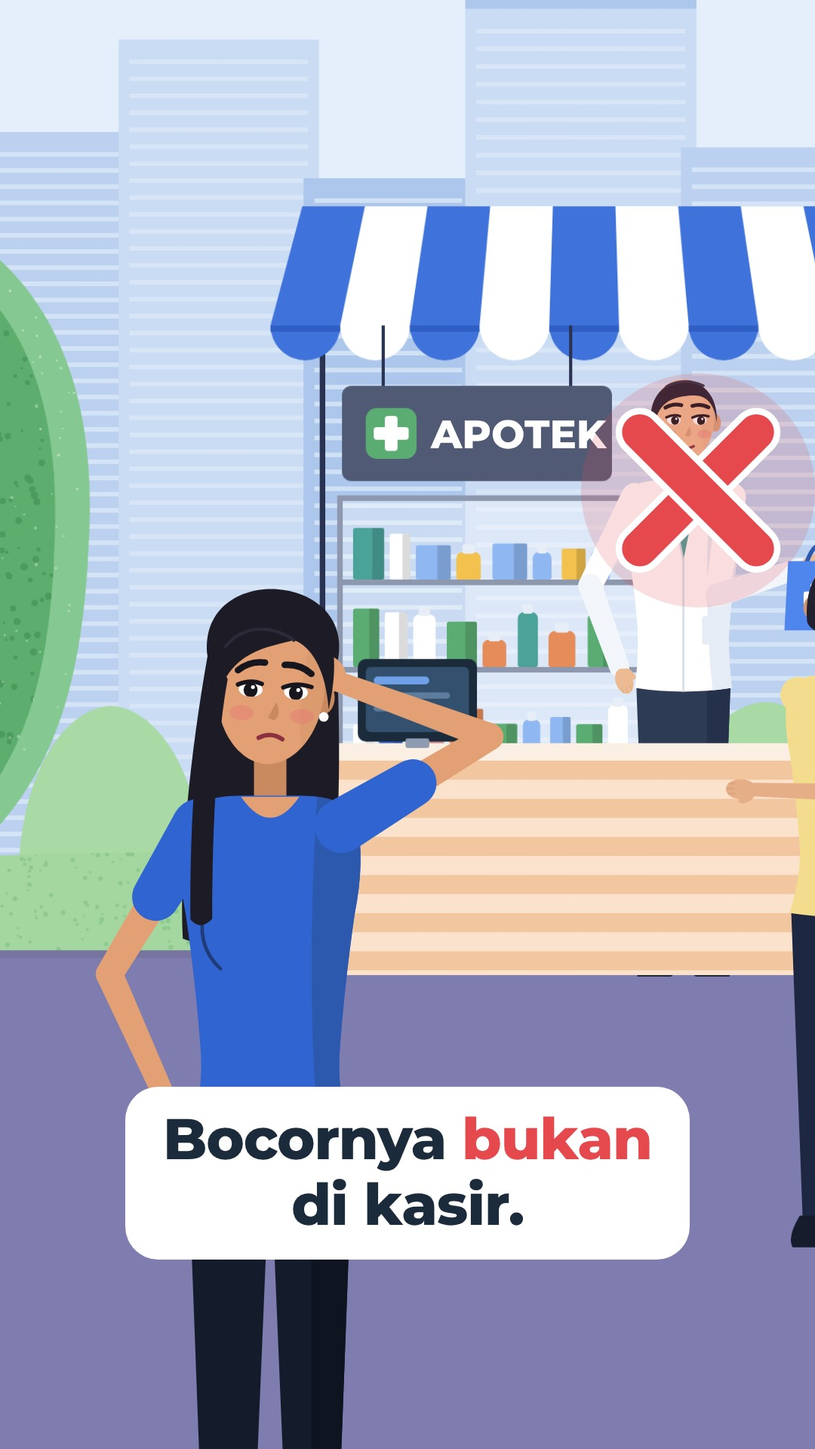
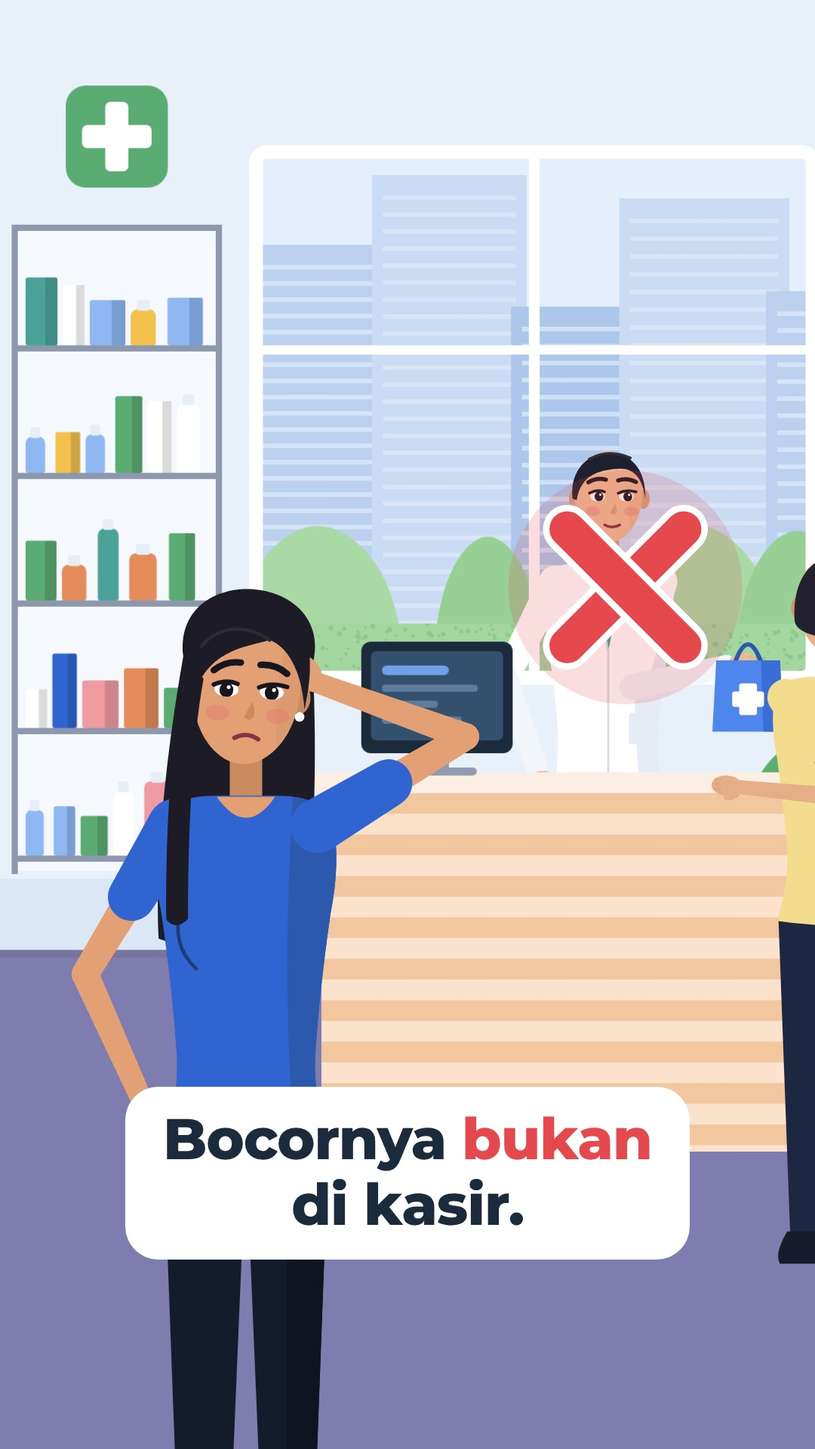
Adegan 1: kembali ke interior apotek sesuai brief, digambar dengan gaya referensi
Claude-Session: https://claude.ai/code/session_01LjuAxChgnnKKTHohxzD6C9

diff --git a/tunda-faktur/index.html b/tunda-faktur/index.html
@@ -331,7 +331,7 @@ function tokoh(o) {
   return out;
 }
 
-/* == 5. LATAR: kios apotek di taman kota (pra-render sekali) == */
+/* == 5. LATAR: interior apotek (pra-render sekali), gaya referensi == */
 const PAD = 260;
 function praRender(fn) { const k = kanvas(W + PAD * 2, H + PAD * 2), x = k.getContext('2d'); const lama = c; c = x; c.translate(PAD, PAD); fn(); c = lama; return k; }
 function gedung(x, y, w, h, warna, benih) {
@@ -344,68 +344,55 @@ function pohonMuda(x, y, r, warna, tinggi = 1.5) {
   c.beginPath(); c.moveTo(x - r, y); c.bezierCurveTo(x - r * 1.05, y - r * tinggi * .9, x - r * .4, y - r * tinggi * 1.25, x, y - r * tinggi * 1.25);
   c.bezierCurveTo(x + r * .4, y - r * tinggi * 1.25, x + r * 1.05, y - r * tinggi * .9, x + r, y); c.closePath(); isi(warna);
 }
+/* interior apotek siang, digambar dengan gaya referensi */
 const LATAR = praRender(() => {
-  c.fillStyle = C.langit; c.fillRect(-PAD, -PAD, W + PAD * 2, H + PAD * 2);
-  /* gedung pucat */
-  gedung(-120, 200, 300, 1100, C.ged2, 1); gedung(150, 80, 260, 1220, C.ged1, 2); gedung(390, 260, 220, 1040, C.ged3, 3);
-  gedung(600, 40, 300, 1260, C.ged1, 4); gedung(880, 220, 340, 1080, C.ged2, 5);
-  c.fillStyle = C.ged3; c.fillRect(600, 0, 300, 40); c.fillRect(690, -60, 80, 60);
-  /* pohon muda di belakang */
-  pohonMuda(140, 1200, 120, C.pohonMuda, 1.7); pohonMuda(330, 1210, 80, C.pohonMuda2, 1.9); pohonMuda(560, 1190, 70, C.pohonMuda, 2.3);
-  pohonMuda(990, 1200, 130, C.pohonMuda, 1.6);
-  /* rumput bertekstur */
-  c.beginPath(); c.moveTo(-PAD, 1150); c.quadraticCurveTo(300, 1120, 620, 1150); c.quadraticCurveTo(900, 1175, W + PAD, 1140); c.lineTo(W + PAD, 1270); c.lineTo(-PAD, 1270); c.closePath(); isi(C.rumput);
-  c.beginPath(); c.moveTo(-PAD, 1150); c.quadraticCurveTo(300, 1120, 620, 1150); c.quadraticCurveTo(900, 1175, W + PAD, 1140); c.lineTo(W + PAD, 1270); c.lineTo(-PAD, 1270); c.closePath();
-  bintik(-PAD, 1110, W + PAD * 2, 170, C.rumput2, 900, 21);
-  /* lantai/jalan */
-  c.fillStyle = C.lantai; c.fillRect(-PAD, 1262, W + PAD * 2, H);
-  c.fillStyle = C.lantai2; c.fillRect(-PAD, 1262, W + PAD * 2, 10);
-  /* pohon tua besar di kiri depan (bintik) */
-  c.beginPath(); c.moveTo(-PAD, 260); c.bezierCurveTo(60, 300, 130, 520, 110, 760); c.bezierCurveTo(95, 980, 40, 1150, -PAD, 1260); c.closePath(); isi(C.pohonTepi);
-  c.beginPath(); c.moveTo(-PAD, 300); c.bezierCurveTo(30, 340, 80, 540, 66, 760); c.bezierCurveTo(54, 960, 10, 1120, -PAD, 1230); c.closePath(); isi(C.pohonTua);
-  c.beginPath(); c.moveTo(-PAD, 300); c.bezierCurveTo(30, 340, 80, 540, 66, 760); c.bezierCurveTo(54, 960, 10, 1120, -PAD, 1230); c.closePath();
-  bintik(-PAD, 280, PAD + 120, 980, C.pohonTua2, 700, 31, 1.5, 5);
-  c.beginPath(); c.moveTo(-PAD, 260); c.bezierCurveTo(60, 300, 130, 520, 110, 760); c.bezierCurveTo(95, 980, 40, 1150, -PAD, 1260); c.closePath();
-  bintik(-PAD, 240, PAD + 140, 1040, 'rgba(255,255,255,.35)', 260, 32, 1, 2.4);
-});
-/* kios: tiang, tenda, papan, rak (di belakang kasir) */
-const KIOS_BELAKANG = praRender(() => {
-  /* rak obat bergaya rak kios referensi */
-  const rx = 420, ry = 700, rw = 380, rh = 330;
-  c.fillStyle = 'rgba(255,255,255,.35)'; c.fillRect(rx, ry, rw, rh);
-  const R = rng(5), warna = ['#3064D1', '#4BA299', '#5BAC72', '#F2C14E', '#F09AA2', '#FFFFFF', '#8FB7F2', '#E58C5A'];
-  for (let b = 0; b < 3; b++) { const by = ry + 100 + b * 110; let xx = rx + 14;
-    while (xx < rx + rw - 36) { const bw = 24 + R() * 22, bh = 34 + R() * 40, k = warna[Math.floor(R() * warna.length)];
-      if (R() < .35) { rr(xx, by - bh, bw * .8, bh, [8, 8, 3, 3]); isi(k); rr(xx + bw * .2, by - bh - 10, bw * .4, 12, 3); isi('#E8EEF7'); }
+  /* dinding biru pucat + list bawah */
+  c.fillStyle = '#E8F0FA'; c.fillRect(-PAD, -PAD, W + PAD * 2, H + PAD * 2);
+  c.fillStyle = '#DCE7F5'; c.fillRect(-PAD, 1170, W + PAD * 2, 92);
+  /* jendela besar: langit, gedung pucat bergaris, pohon bertekstur (pemandangan referensi) */
+  const jx = 330, jy = 230, jw = 720, jh = 680;
+  c.save(); rr(jx, jy, jw, jh, 14); c.clip();
+  c.fillStyle = C.langit; c.fillRect(jx, jy, jw, jh);
+  gedung(jx - 40, jy + 120, 220, 700, C.ged2, 1); gedung(jx + 150, jy + 30, 200, 800, C.ged1, 2); gedung(jx + 330, jy + 200, 160, 700, C.ged3, 3);
+  gedung(jx + 470, jy + 60, 220, 800, C.ged1, 4); gedung(jx + 660, jy + 180, 160, 700, C.ged2, 5);
+  pohonMuda(jx + 80, jy + jh + 10, 110, C.pohonMuda, 1.5); pohonMuda(jx + 300, jy + jh + 10, 70, C.pohonMuda2, 2.2);
+  pohonMuda(jx + 560, jy + jh + 10, 120, C.pohonMuda, 1.4); pohonMuda(jx + 700, jy + jh + 10, 80, C.pohonMuda2, 2);
+  c.beginPath(); c.rect(jx, jy + jh - 70, jw, 70); isi(C.rumput); c.beginPath(); c.rect(jx, jy + jh - 70, jw, 70); bintik(jx, jy + jh - 70, jw, 70, C.rumput2, 300, 21);
+  c.restore();
+  c.lineWidth = 18; c.strokeStyle = '#FFFFFF'; rr(jx, jy, jw, jh, 14); c.stroke();
+  c.fillStyle = '#FFFFFF'; c.fillRect(jx + jw / 2 - 7, jy, 14, jh); c.fillRect(jx, jy + 250, jw, 12);
+  /* tanda salib hijau apotek */
+  c.save(); c.translate(150, 210); rr(-66, -66, 132, 132, 26); isi(C.hijau); rr(-15, -45, 30, 90, 7); isi('#fff'); rr(-45, -15, 90, 30, 7); isi('#fff'); c.restore();
+  /* rak obat berangka besi tipis (seperti rak kios referensi) */
+  const rx = 20, ry = 330, rw = 260, R = rng(5), warna = ['#3064D1', '#4BA299', '#5BAC72', '#F2C14E', '#F09AA2', '#FFFFFF', '#8FB7F2', '#E58C5A'];
+  c.fillStyle = 'rgba(255,255,255,.55)'; c.fillRect(rx, ry, rw, 830);
+  for (let b = 0; b < 5; b++) { const by = ry + 150 + b * 165; let xx = rx + 12;
+    while (xx < rx + rw - 30) { const bw = 26 + R() * 22, bh = 46 + R() * 54, k = warna[Math.floor(R() * warna.length)];
+      if (R() < .35) { rr(xx, by - bh, bw * .8, bh, [9, 9, 3, 3]); isi(k); rr(xx + bw * .2, by - bh - 12, bw * .4, 14, 3); isi('#E8EEF7'); }
       else { rr(xx, by - bh, bw, bh, 3); isi(k); c.globalAlpha = .14; c.fillStyle = '#000'; c.fillRect(xx + bw * .62, by - bh, bw * .38, bh); c.globalAlpha = 1; }
       xx += bw + 7; }
-    c.fillStyle = '#8D97AE'; c.fillRect(rx - 6, by, rw + 12, 7); }
-  c.fillStyle = '#8D97AE'; c.fillRect(rx - 6, ry - 6, 7, rh + 6); c.fillRect(rx + rw - 1, ry - 6, 7, rh + 6); c.fillRect(rx - 6, ry - 6, rw + 12, 7);
-  /* tiang */
-  c.fillStyle = C.besi; c.fillRect(392, 470, 7, 820); c.fillRect(1052, 470, 7, 820);
-  /* tenda biru-putih bergaris dengan ujung bergelombang */
-  const tx = 330, tw = 790, ty = 330, th = 150, n = 9, sw = tw / n;
-  c.beginPath(); c.moveTo(tx + 40, ty); c.lineTo(tx + tw - 40, ty); c.lineTo(tx + tw, ty + th); c.lineTo(tx, ty + th); c.closePath(); isi('#fff');
-  for (let i = 0; i < n; i++) if (i % 2 === 0) { c.beginPath(); const x0 = tx + i * sw, x1 = x0 + sw;
-    c.moveTo(tx + 40 + i * (tw - 80) / n, ty); c.lineTo(tx + 40 + (i + 1) * (tw - 80) / n, ty); c.lineTo(x1, ty + th); c.lineTo(x0, ty + th); c.closePath(); isi(C.tenda); }
-  for (let i = 0; i < n; i++) { const x0 = tx + i * sw; c.beginPath(); c.moveTo(x0, ty + th); c.lineTo(x0 + sw, ty + th);
-    c.arc(x0 + sw / 2, ty + th, sw / 2, 0, Math.PI); isi(i % 2 === 0 ? C.tenda : '#fff');
-    if (i % 2 === 0) { c.beginPath(); c.moveTo(x0, ty + th); c.lineTo(x0 + sw, ty + th); c.lineTo(x0 + sw, ty + th + 8); c.lineTo(x0, ty + th + 8); isi(C.tenda2); } }
-  /* papan nama apotek (seperti papan menu gelap di referensi) */
-  c.fillStyle = C.besi; c.fillRect(470, 480, 4, 76); c.fillRect(706, 480, 4, 76);
-  rr(420, 556, 340, 120, 12); isi(C.papan);
-  c.save(); c.translate(482, 616); rr(-32, -32, 64, 64, 14); isi(C.hijau); rr(-8, -22, 16, 44, 4); isi('#fff'); rr(-22, -8, 44, 16, 4); isi('#fff'); c.restore();
+    c.fillStyle = '#8D97AE'; c.fillRect(rx - 6, by, rw + 12, 8); }
+  c.fillStyle = '#8D97AE'; c.fillRect(rx - 6, ry - 6, 8, 840); c.fillRect(rx + rw - 2, ry - 6, 8, 840); c.fillRect(rx - 6, ry - 6, rw + 12, 8);
+  /* tanaman pot bertekstur di sudut kanan */
+  c.beginPath(); c.moveTo(1000, 1240); c.bezierCurveTo(930, 1180, 950, 1010, 1040, 990); c.bezierCurveTo(1130, 1010, 1150, 1180, 1080, 1240); c.closePath(); isi(C.pohonTua);
+  c.beginPath(); c.moveTo(1000, 1240); c.bezierCurveTo(930, 1180, 950, 1010, 1040, 990); c.bezierCurveTo(1130, 1010, 1150, 1180, 1080, 1240); c.closePath(); bintik(920, 980, 240, 270, C.pohonTua2, 160, 41, 1.5, 4.5);
+  rr(985, 1220, 110, 60, [6, 6, 14, 14]); isi('#F2C7A0');
+  /* lantai ungu-abu seperti referensi */
+  c.fillStyle = C.lantai; c.fillRect(-PAD, 1262, W + PAD * 2, H);
+  c.fillStyle = C.lantai2; c.fillRect(-PAD, 1262, W + PAD * 2, 10);
 });
+const KIOS_BELAKANG = praRender(() => {});
 const KIOS_DEPAN = praRender(() => {
   /* meja kasir bergaris peach (seperti kios referensi) */
-  const x0 = 380, y0 = 1020, w = 700, h = 270;
-  rr(x0 - 8, y0 - 14, w + 16, 22, 6); isi('#FBEFE3');
-  c.save(); c.beginPath(); c.rect(x0, y0 + 8, w, h); c.clip();
-  for (let i = 0; i < 12; i++) { c.fillStyle = i % 2 ? C.kayu2 : C.kayu; c.fillRect(x0, y0 + 8 + i * 24, w, 24); }
+  const x0 = 400, y0 = 1060, w = 720, h = 450;
+  rr(x0 - 10, y0 - 16, w + 20, 26, 6); isi('#FBEFE3');
+  c.save(); c.beginPath(); c.rect(x0, y0 + 10, w, h); c.clip();
+  for (let i = 0; i < 18; i++) { c.fillStyle = i % 2 ? C.kayu2 : C.kayu; c.fillRect(x0, y0 + 10 + i * 26, w, 26); }
   c.restore();
-  /* mesin kasir */
-  rr(440, 900, 150, 104, 10); isi(C.navy); rr(450, 910, 130, 82, 6); isi('#33506F'); rr(460, 922, 70, 10, 5); isi('#6FA0E8'); rr(460, 942, 96, 8, 4); isi('#5D7C9E'); rr(460, 958, 56, 8, 4); isi('#5D7C9E');
-  rr(500, 1000, 30, 12, 3); isi('#8E9BB0');
+  /* komputer kasir */
+  rr(450, 880, 190, 140, 12); isi(C.navy); rr(462, 892, 166, 112, 7); isi('#33506F');
+  rr(476, 910, 84, 12, 6); isi('#6FA0E8'); rr(476, 934, 120, 9, 4); isi('#5D7C9E'); rr(476, 954, 70, 9, 4); isi('#5D7C9E'); rr(476, 974, 100, 9, 4); isi('#5D7C9E');
+  rr(530, 1020, 30, 26, 3); isi('#8E9BB0'); rr(495, 1038, 100, 10, 5); isi('#8E9BB0');
 });
 function tempel(k, d) { pasang(d); c.drawImage(k, -PAD, -PAD); }
 
@@ -432,29 +419,28 @@ function silangBesar(x, y, k) { if (k <= 0) return;
 function adegan1(t) {
   const A = WAKTU.s1;
   const sh = seg(t, A.silang, A.silang + .35), getar = sh > 0 ? 1 - sh : 0;
-  CAM = {x: 520 - 30 * E.io(seg(t, 0, 4.4)), y: 990, z: 1.0 + .07 * E.io(seg(t, 0, 4.4)), gx: Math.sin(t * 70) * 12 * getar, gy: Math.cos(t * 63) * 7 * getar};
-  tempel(LATAR, .3);
-  tempel(KIOS_BELAKANG, .75);
-  pasang(.75);
-  c.fillStyle = '#fff'; c.font = "800 50px 'Montserrat'"; c.textBaseline = 'middle'; c.fillText('APOTEK', 532, 620);
-  const kasirEks = kunciEks(t, [[0, {...EKS.senyum, lx: .6}], [A.silang + .2, {...EKS.netral, alis: -4, miring: -.12, senyum: .55, lx: .5}, .3]]);
-  tokoh({x: 850, y: 1300, s: .78, t, benih: 2, w: TOKOH.kasir, lihat: .5, eks: kasirEks,
-    tangan: {ka: [190 + Math.sin(t * 2) * 5, -660, 1]},
-    pegang: (h) => tasObat(h.ka[0] + 4, h.ka[1] - 2, .78)});
-  tempel(KIOS_DEPAN, .75);
+  CAM = {x: 525 - 25 * E.io(seg(t, 0, 4.4)), y: 990, z: 1.0 + .07 * E.io(seg(t, 0, 4.4)), gx: Math.sin(t * 70) * 12 * getar, gy: Math.cos(t * 63) * 7 * getar};
+  tempel(LATAR, .35);
   pasang(.8);
-  tokoh({x: 1050, y: 1640, s: .9, t, benih: 5, w: TOKOH.pembeli, belakang: true, tangan: {ki: [-130, -640, -1]}});
+  const kasirEks = kunciEks(t, [[0, {...EKS.senyum, lx: .6}], [A.silang + .2, {...EKS.netral, alis: -4, miring: -.12, senyum: .55, lx: .5}, .3]]);
+  tokoh({x: 760, y: 1470, s: .86, t, benih: 2, w: TOKOH.kasir, lihat: .5, eks: kasirEks,
+    tangan: {ka: [175 + Math.sin(t * 2) * 5, -650, 1]},
+    pegang: (h) => tasObat(h.ka[0] + 4, h.ka[1] - 2, .8)});
+  tempel(KIOS_DEPAN, .8);
+  pasang(.85);
+  tokoh({x: 1040, y: 1660, s: .92, t, benih: 5, w: TOKOH.pembeli, belakang: true, tangan: {ki: [-130, -650, -1]}});
   pasang(1);
   const ownEks = kunciEks(t, [[0, 'curiga'], [A.silang + .15, 'kaget', .18], [A.silang + .75, 'bingung', .35]]);
   const tg = kunciTangan(t, [[0, {ka: [20, -838, -1], ki: [-88, -500, 1]}], [A.silang + .5, {ka: [64, -905, 1], ki: [-88, -500, 1]}, .4]]);
-  const own = tokoh({x: 320, y: 2150, s: 1.34, t, benih: 1, w: TOKOH.owner, lihat: lerp(.8, .25, E.io(seg(t, A.silang + .5, A.silang + .9))),
+  const own = tokoh({x: 300, y: 2150, s: 1.34, t, benih: 1, w: TOKOH.owner, lihat: lerp(.8, .25, E.io(seg(t, A.silang + .5, A.silang + .9))),
     tilt: lerp(-.05, .07, E.io(seg(t, A.silang + .5, A.silang + .9))), eks: ownEks, tangan: tg});
   tandaSeru(own.kepala[0] + 150, own.kepala[1] - 40, pop(t, A.seru, .35) * (1 - seg(t, A.pikirOut, A.pikirOut + .2)), t);
-  silangBesar(850, 700, pop(t, A.silang, .35));
+  silangBesar(770, 820, pop(t, A.silang, .35));
 }
 
+
 /* == 7. TEKS (balon & kinetik) == */
-const B1 = $('#bPikir1'); B1.style.left = '90px'; B1.style.top = '400px';
+const B1 = $('#bPikir1'); B1.style.left = '90px'; B1.style.top = '470px';
 const K1 = $('#k1'); K1.style.top = '1440px';
 function popEl(elx, t, a, b, dari = .3) {
   const k = pop(t, a, .35), h = 1 - E.in(seg(t, b, b + .22));

diff --git a/tunda-faktur/scene.html b/tunda-faktur/scene.html
@@ -213,7 +213,7 @@ function tokoh(o) {
   return out;
 }
 
-/* == 5. LATAR: kios apotek di taman kota (pra-render sekali) == */
+/* == 5. LATAR: interior apotek (pra-render sekali), gaya referensi == */
 const PAD = 260;
 function praRender(fn) { const k = kanvas(W + PAD * 2, H + PAD * 2), x = k.getContext('2d'); const lama = c; c = x; c.translate(PAD, PAD); fn(); c = lama; return k; }
 function gedung(x, y, w, h, warna, benih) {
@@ -226,68 +226,55 @@ function pohonMuda(x, y, r, warna, tinggi = 1.5) {
   c.beginPath(); c.moveTo(x - r, y); c.bezierCurveTo(x - r * 1.05, y - r * tinggi * .9, x - r * .4, y - r * tinggi * 1.25, x, y - r * tinggi * 1.25);
   c.bezierCurveTo(x + r * .4, y - r * tinggi * 1.25, x + r * 1.05, y - r * tinggi * .9, x + r, y); c.closePath(); isi(warna);
 }
+/* interior apotek siang, digambar dengan gaya referensi */
 const LATAR = praRender(() => {
-  c.fillStyle = C.langit; c.fillRect(-PAD, -PAD, W + PAD * 2, H + PAD * 2);
-  /* gedung pucat */
-  gedung(-120, 200, 300, 1100, C.ged2, 1); gedung(150, 80, 260, 1220, C.ged1, 2); gedung(390, 260, 220, 1040, C.ged3, 3);
-  gedung(600, 40, 300, 1260, C.ged1, 4); gedung(880, 220, 340, 1080, C.ged2, 5);
-  c.fillStyle = C.ged3; c.fillRect(600, 0, 300, 40); c.fillRect(690, -60, 80, 60);
-  /* pohon muda di belakang */
-  pohonMuda(140, 1200, 120, C.pohonMuda, 1.7); pohonMuda(330, 1210, 80, C.pohonMuda2, 1.9); pohonMuda(560, 1190, 70, C.pohonMuda, 2.3);
-  pohonMuda(990, 1200, 130, C.pohonMuda, 1.6);
-  /* rumput bertekstur */
-  c.beginPath(); c.moveTo(-PAD, 1150); c.quadraticCurveTo(300, 1120, 620, 1150); c.quadraticCurveTo(900, 1175, W + PAD, 1140); c.lineTo(W + PAD, 1270); c.lineTo(-PAD, 1270); c.closePath(); isi(C.rumput);
-  c.beginPath(); c.moveTo(-PAD, 1150); c.quadraticCurveTo(300, 1120, 620, 1150); c.quadraticCurveTo(900, 1175, W + PAD, 1140); c.lineTo(W + PAD, 1270); c.lineTo(-PAD, 1270); c.closePath();
-  bintik(-PAD, 1110, W + PAD * 2, 170, C.rumput2, 900, 21);
-  /* lantai/jalan */
-  c.fillStyle = C.lantai; c.fillRect(-PAD, 1262, W + PAD * 2, H);
-  c.fillStyle = C.lantai2; c.fillRect(-PAD, 1262, W + PAD * 2, 10);
-  /* pohon tua besar di kiri depan (bintik) */
-  c.beginPath(); c.moveTo(-PAD, 260); c.bezierCurveTo(60, 300, 130, 520, 110, 760); c.bezierCurveTo(95, 980, 40, 1150, -PAD, 1260); c.closePath(); isi(C.pohonTepi);
-  c.beginPath(); c.moveTo(-PAD, 300); c.bezierCurveTo(30, 340, 80, 540, 66, 760); c.bezierCurveTo(54, 960, 10, 1120, -PAD, 1230); c.closePath(); isi(C.pohonTua);
-  c.beginPath(); c.moveTo(-PAD, 300); c.bezierCurveTo(30, 340, 80, 540, 66, 760); c.bezierCurveTo(54, 960, 10, 1120, -PAD, 1230); c.closePath();
-  bintik(-PAD, 280, PAD + 120, 980, C.pohonTua2, 700, 31, 1.5, 5);
-  c.beginPath(); c.moveTo(-PAD, 260); c.bezierCurveTo(60, 300, 130, 520, 110, 760); c.bezierCurveTo(95, 980, 40, 1150, -PAD, 1260); c.closePath();
-  bintik(-PAD, 240, PAD + 140, 1040, 'rgba(255,255,255,.35)', 260, 32, 1, 2.4);
-});
-/* kios: tiang, tenda, papan, rak (di belakang kasir) */
-const KIOS_BELAKANG = praRender(() => {
-  /* rak obat bergaya rak kios referensi */
-  const rx = 420, ry = 700, rw = 380, rh = 330;
-  c.fillStyle = 'rgba(255,255,255,.35)'; c.fillRect(rx, ry, rw, rh);
-  const R = rng(5), warna = ['#3064D1', '#4BA299', '#5BAC72', '#F2C14E', '#F09AA2', '#FFFFFF', '#8FB7F2', '#E58C5A'];
-  for (let b = 0; b < 3; b++) { const by = ry + 100 + b * 110; let xx = rx + 14;
-    while (xx < rx + rw - 36) { const bw = 24 + R() * 22, bh = 34 + R() * 40, k = warna[Math.floor(R() * warna.length)];
-      if (R() < .35) { rr(xx, by - bh, bw * .8, bh, [8, 8, 3, 3]); isi(k); rr(xx + bw * .2, by - bh - 10, bw * .4, 12, 3); isi('#E8EEF7'); }
+  /* dinding biru pucat + list bawah */
+  c.fillStyle = '#E8F0FA'; c.fillRect(-PAD, -PAD, W + PAD * 2, H + PAD * 2);
+  c.fillStyle = '#DCE7F5'; c.fillRect(-PAD, 1170, W + PAD * 2, 92);
+  /* jendela besar: langit, gedung pucat bergaris, pohon bertekstur (pemandangan referensi) */
+  const jx = 330, jy = 230, jw = 720, jh = 680;
+  c.save(); rr(jx, jy, jw, jh, 14); c.clip();
+  c.fillStyle = C.langit; c.fillRect(jx, jy, jw, jh);
+  gedung(jx - 40, jy + 120, 220, 700, C.ged2, 1); gedung(jx + 150, jy + 30, 200, 800, C.ged1, 2); gedung(jx + 330, jy + 200, 160, 700, C.ged3, 3);
+  gedung(jx + 470, jy + 60, 220, 800, C.ged1, 4); gedung(jx + 660, jy + 180, 160, 700, C.ged2, 5);
+  pohonMuda(jx + 80, jy + jh + 10, 110, C.pohonMuda, 1.5); pohonMuda(jx + 300, jy + jh + 10, 70, C.pohonMuda2, 2.2);
+  pohonMuda(jx + 560, jy + jh + 10, 120, C.pohonMuda, 1.4); pohonMuda(jx + 700, jy + jh + 10, 80, C.pohonMuda2, 2);
+  c.beginPath(); c.rect(jx, jy + jh - 70, jw, 70); isi(C.rumput); c.beginPath(); c.rect(jx, jy + jh - 70, jw, 70); bintik(jx, jy + jh - 70, jw, 70, C.rumput2, 300, 21);
+  c.restore();
+  c.lineWidth = 18; c.strokeStyle = '#FFFFFF'; rr(jx, jy, jw, jh, 14); c.stroke();
+  c.fillStyle = '#FFFFFF'; c.fillRect(jx + jw / 2 - 7, jy, 14, jh); c.fillRect(jx, jy + 250, jw, 12);
+  /* tanda salib hijau apotek */
+  c.save(); c.translate(150, 210); rr(-66, -66, 132, 132, 26); isi(C.hijau); rr(-15, -45, 30, 90, 7); isi('#fff'); rr(-45, -15, 90, 30, 7); isi('#fff'); c.restore();
+  /* rak obat berangka besi tipis (seperti rak kios referensi) */
+  const rx = 20, ry = 330, rw = 260, R = rng(5), warna = ['#3064D1', '#4BA299', '#5BAC72', '#F2C14E', '#F09AA2', '#FFFFFF', '#8FB7F2', '#E58C5A'];
+  c.fillStyle = 'rgba(255,255,255,.55)'; c.fillRect(rx, ry, rw, 830);
+  for (let b = 0; b < 5; b++) { const by = ry + 150 + b * 165; let xx = rx + 12;
+    while (xx < rx + rw - 30) { const bw = 26 + R() * 22, bh = 46 + R() * 54, k = warna[Math.floor(R() * warna.length)];
+      if (R() < .35) { rr(xx, by - bh, bw * .8, bh, [9, 9, 3, 3]); isi(k); rr(xx + bw * .2, by - bh - 12, bw * .4, 14, 3); isi('#E8EEF7'); }
       else { rr(xx, by - bh, bw, bh, 3); isi(k); c.globalAlpha = .14; c.fillStyle = '#000'; c.fillRect(xx + bw * .62, by - bh, bw * .38, bh); c.globalAlpha = 1; }
       xx += bw + 7; }
-    c.fillStyle = '#8D97AE'; c.fillRect(rx - 6, by, rw + 12, 7); }
-  c.fillStyle = '#8D97AE'; c.fillRect(rx - 6, ry - 6, 7, rh + 6); c.fillRect(rx + rw - 1, ry - 6, 7, rh + 6); c.fillRect(rx - 6, ry - 6, rw + 12, 7);
-  /* tiang */
-  c.fillStyle = C.besi; c.fillRect(392, 470, 7, 820); c.fillRect(1052, 470, 7, 820);
-  /* tenda biru-putih bergaris dengan ujung bergelombang */
-  const tx = 330, tw = 790, ty = 330, th = 150, n = 9, sw = tw / n;
-  c.beginPath(); c.moveTo(tx + 40, ty); c.lineTo(tx + tw - 40, ty); c.lineTo(tx + tw, ty + th); c.lineTo(tx, ty + th); c.closePath(); isi('#fff');
-  for (let i = 0; i < n; i++) if (i % 2 === 0) { c.beginPath(); const x0 = tx + i * sw, x1 = x0 + sw;
-    c.moveTo(tx + 40 + i * (tw - 80) / n, ty); c.lineTo(tx + 40 + (i + 1) * (tw - 80) / n, ty); c.lineTo(x1, ty + th); c.lineTo(x0, ty + th); c.closePath(); isi(C.tenda); }
-  for (let i = 0; i < n; i++) { const x0 = tx + i * sw; c.beginPath(); c.moveTo(x0, ty + th); c.lineTo(x0 + sw, ty + th);
-    c.arc(x0 + sw / 2, ty + th, sw / 2, 0, Math.PI); isi(i % 2 === 0 ? C.tenda : '#fff');
-    if (i % 2 === 0) { c.beginPath(); c.moveTo(x0, ty + th); c.lineTo(x0 + sw, ty + th); c.lineTo(x0 + sw, ty + th + 8); c.lineTo(x0, ty + th + 8); isi(C.tenda2); } }
-  /* papan nama apotek (seperti papan menu gelap di referensi) */
-  c.fillStyle = C.besi; c.fillRect(470, 480, 4, 76); c.fillRect(706, 480, 4, 76);
-  rr(420, 556, 340, 120, 12); isi(C.papan);
-  c.save(); c.translate(482, 616); rr(-32, -32, 64, 64, 14); isi(C.hijau); rr(-8, -22, 16, 44, 4); isi('#fff'); rr(-22, -8, 44, 16, 4); isi('#fff'); c.restore();
+    c.fillStyle = '#8D97AE'; c.fillRect(rx - 6, by, rw + 12, 8); }
+  c.fillStyle = '#8D97AE'; c.fillRect(rx - 6, ry - 6, 8, 840); c.fillRect(rx + rw - 2, ry - 6, 8, 840); c.fillRect(rx - 6, ry - 6, rw + 12, 8);
+  /* tanaman pot bertekstur di sudut kanan */
+  c.beginPath(); c.moveTo(1000, 1240); c.bezierCurveTo(930, 1180, 950, 1010, 1040, 990); c.bezierCurveTo(1130, 1010, 1150, 1180, 1080, 1240); c.closePath(); isi(C.pohonTua);
+  c.beginPath(); c.moveTo(1000, 1240); c.bezierCurveTo(930, 1180, 950, 1010, 1040, 990); c.bezierCurveTo(1130, 1010, 1150, 1180, 1080, 1240); c.closePath(); bintik(920, 980, 240, 270, C.pohonTua2, 160, 41, 1.5, 4.5);
+  rr(985, 1220, 110, 60, [6, 6, 14, 14]); isi('#F2C7A0');
+  /* lantai ungu-abu seperti referensi */
+  c.fillStyle = C.lantai; c.fillRect(-PAD, 1262, W + PAD * 2, H);
+  c.fillStyle = C.lantai2; c.fillRect(-PAD, 1262, W + PAD * 2, 10);
 });
+const KIOS_BELAKANG = praRender(() => {});
 const KIOS_DEPAN = praRender(() => {
   /* meja kasir bergaris peach (seperti kios referensi) */
-  const x0 = 380, y0 = 1020, w = 700, h = 270;
-  rr(x0 - 8, y0 - 14, w + 16, 22, 6); isi('#FBEFE3');
-  c.save(); c.beginPath(); c.rect(x0, y0 + 8, w, h); c.clip();
-  for (let i = 0; i < 12; i++) { c.fillStyle = i % 2 ? C.kayu2 : C.kayu; c.fillRect(x0, y0 + 8 + i * 24, w, 24); }
+  const x0 = 400, y0 = 1060, w = 720, h = 450;
+  rr(x0 - 10, y0 - 16, w + 20, 26, 6); isi('#FBEFE3');
+  c.save(); c.beginPath(); c.rect(x0, y0 + 10, w, h); c.clip();
+  for (let i = 0; i < 18; i++) { c.fillStyle = i % 2 ? C.kayu2 : C.kayu; c.fillRect(x0, y0 + 10 + i * 26, w, 26); }
   c.restore();
-  /* mesin kasir */
-  rr(440, 900, 150, 104, 10); isi(C.navy); rr(450, 910, 130, 82, 6); isi('#33506F'); rr(460, 922, 70, 10, 5); isi('#6FA0E8'); rr(460, 942, 96, 8, 4); isi('#5D7C9E'); rr(460, 958, 56, 8, 4); isi('#5D7C9E');
-  rr(500, 1000, 30, 12, 3); isi('#8E9BB0');
+  /* komputer kasir */
+  rr(450, 880, 190, 140, 12); isi(C.navy); rr(462, 892, 166, 112, 7); isi('#33506F');
+  rr(476, 910, 84, 12, 6); isi('#6FA0E8'); rr(476, 934, 120, 9, 4); isi('#5D7C9E'); rr(476, 954, 70, 9, 4); isi('#5D7C9E'); rr(476, 974, 100, 9, 4); isi('#5D7C9E');
+  rr(530, 1020, 30, 26, 3); isi('#8E9BB0'); rr(495, 1038, 100, 10, 5); isi('#8E9BB0');
 });
 function tempel(k, d) { pasang(d); c.drawImage(k, -PAD, -PAD); }
 
@@ -314,29 +301,28 @@ function silangBesar(x, y, k) { if (k <= 0) return;
 function adegan1(t) {
   const A = WAKTU.s1;
   const sh = seg(t, A.silang, A.silang + .35), getar = sh > 0 ? 1 - sh : 0;
-  CAM = {x: 520 - 30 * E.io(seg(t, 0, 4.4)), y: 990, z: 1.0 + .07 * E.io(seg(t, 0, 4.4)), gx: Math.sin(t * 70) * 12 * getar, gy: Math.cos(t * 63) * 7 * getar};
-  tempel(LATAR, .3);
-  tempel(KIOS_BELAKANG, .75);
-  pasang(.75);
-  c.fillStyle = '#fff'; c.font = "800 50px 'Montserrat'"; c.textBaseline = 'middle'; c.fillText('APOTEK', 532, 620);
-  const kasirEks = kunciEks(t, [[0, {...EKS.senyum, lx: .6}], [A.silang + .2, {...EKS.netral, alis: -4, miring: -.12, senyum: .55, lx: .5}, .3]]);
-  tokoh({x: 850, y: 1300, s: .78, t, benih: 2, w: TOKOH.kasir, lihat: .5, eks: kasirEks,
-    tangan: {ka: [190 + Math.sin(t * 2) * 5, -660, 1]},
-    pegang: (h) => tasObat(h.ka[0] + 4, h.ka[1] - 2, .78)});
-  tempel(KIOS_DEPAN, .75);
+  CAM = {x: 525 - 25 * E.io(seg(t, 0, 4.4)), y: 990, z: 1.0 + .07 * E.io(seg(t, 0, 4.4)), gx: Math.sin(t * 70) * 12 * getar, gy: Math.cos(t * 63) * 7 * getar};
+  tempel(LATAR, .35);
   pasang(.8);
-  tokoh({x: 1050, y: 1640, s: .9, t, benih: 5, w: TOKOH.pembeli, belakang: true, tangan: {ki: [-130, -640, -1]}});
+  const kasirEks = kunciEks(t, [[0, {...EKS.senyum, lx: .6}], [A.silang + .2, {...EKS.netral, alis: -4, miring: -.12, senyum: .55, lx: .5}, .3]]);
+  tokoh({x: 760, y: 1470, s: .86, t, benih: 2, w: TOKOH.kasir, lihat: .5, eks: kasirEks,
+    tangan: {ka: [175 + Math.sin(t * 2) * 5, -650, 1]},
+    pegang: (h) => tasObat(h.ka[0] + 4, h.ka[1] - 2, .8)});
+  tempel(KIOS_DEPAN, .8);
+  pasang(.85);
+  tokoh({x: 1040, y: 1660, s: .92, t, benih: 5, w: TOKOH.pembeli, belakang: true, tangan: {ki: [-130, -650, -1]}});
   pasang(1);
   const ownEks = kunciEks(t, [[0, 'curiga'], [A.silang + .15, 'kaget', .18], [A.silang + .75, 'bingung', .35]]);
   const tg = kunciTangan(t, [[0, {ka: [20, -838, -1], ki: [-88, -500, 1]}], [A.silang + .5, {ka: [64, -905, 1], ki: [-88, -500, 1]}, .4]]);
-  const own = tokoh({x: 320, y: 2150, s: 1.34, t, benih: 1, w: TOKOH.owner, lihat: lerp(.8, .25, E.io(seg(t, A.silang + .5, A.silang + .9))),
+  const own = tokoh({x: 300, y: 2150, s: 1.34, t, benih: 1, w: TOKOH.owner, lihat: lerp(.8, .25, E.io(seg(t, A.silang + .5, A.silang + .9))),
     tilt: lerp(-.05, .07, E.io(seg(t, A.silang + .5, A.silang + .9))), eks: ownEks, tangan: tg});
   tandaSeru(own.kepala[0] + 150, own.kepala[1] - 40, pop(t, A.seru, .35) * (1 - seg(t, A.pikirOut, A.pikirOut + .2)), t);
-  silangBesar(850, 700, pop(t, A.silang, .35));
+  silangBesar(770, 820, pop(t, A.silang, .35));
 }
 
+
 /* == 7. TEKS (balon & kinetik) == */
-const B1 = $('#bPikir1'); B1.style.left = '90px'; B1.style.top = '400px';
+const B1 = $('#bPikir1'); B1.style.left = '90px'; B1.style.top = '470px';
 const K1 = $('#k1'); K1.style.top = '1440px';
 function popEl(elx, t, a, b, dari = .3) {
   const k = pop(t, a, .35), h = 1 - E.in(seg(t, b, b + .22));

diff --git a/tunda-faktur/gaya.md b/tunda-faktur/gaya.md
@@ -1,6 +1,6 @@
 # Gaya: Flat Vektor Apotek Digital (racikan dari referensi-gaya.jpg)
 
-- **Latar:** kios apotek di tepi taman kota (seperti referensi): gedung biru pucat bergaris jendela, pohon hijau muda + pohon tua bertekstur bintik di kiri, rumput berbintik, jalan ungu-abu, tenda bergaris biru-putih, papan gelap "APOTEK", meja kios bergaris peach
+- **Latar:** interior apotek sesuai brief (rak obat berangka besi tipis, meja kasir bergaris peach, komputer, salib hijau, tanaman pot berbintik), lewat jendela besar terlihat pemandangan gaya referensi: gedung biru pucat bergaris jendela, pohon hijau muda, rumput berbintik. Lantai ungu-abu seperti referensi
 - **Kamera:** datar dari depan seperti panggung, dorong masuk pelan terus-menerus; paralaks 3 lapis (jendela/kota · ruangan · tokoh depan); goyang kecil saat kejutan
 - **Cahaya:** siang terang merata, tanpa bayangan keras; satu nada gelap bertepi tegas di sisi kanan badan/benda (bayangan minimal). Scene 3–4 malam: ruang biru tua + kerucut cahaya lampu meja hangat. Scene 5 flashback: sepia pudar
 - **Palet:** biru utama #3064D1 (baju owner, tombol) · biru tua #2C59AE (nada gelap) · teal #4BA299 (seragam karyawan) · hijau #5BAC72 (centang/positif) · navy #1B2B3B (teks, end card) · merah #E5484D hanya untuk tanda masalah. Latar: langit #DCEBFB, gedung pucat #BCD4F2/#A9C3EA, pohon #9ED4A6/#6DBE8A, lantai ungu-abu #8F8DC2 (dari referensi)
